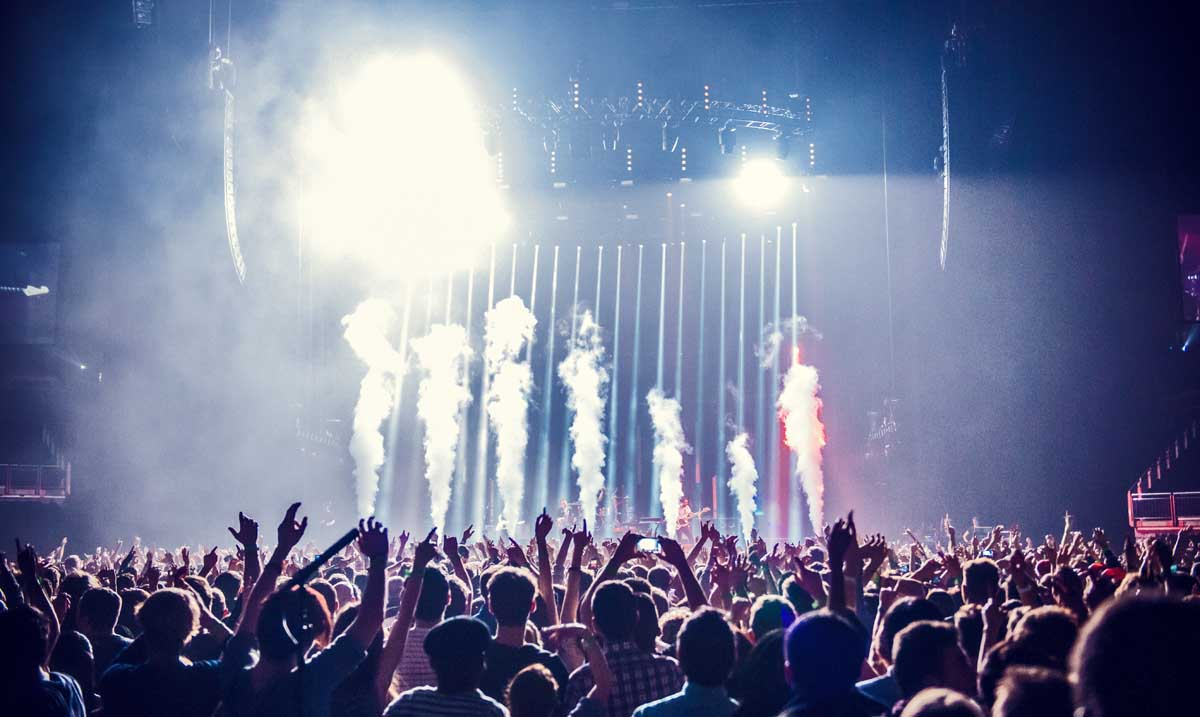
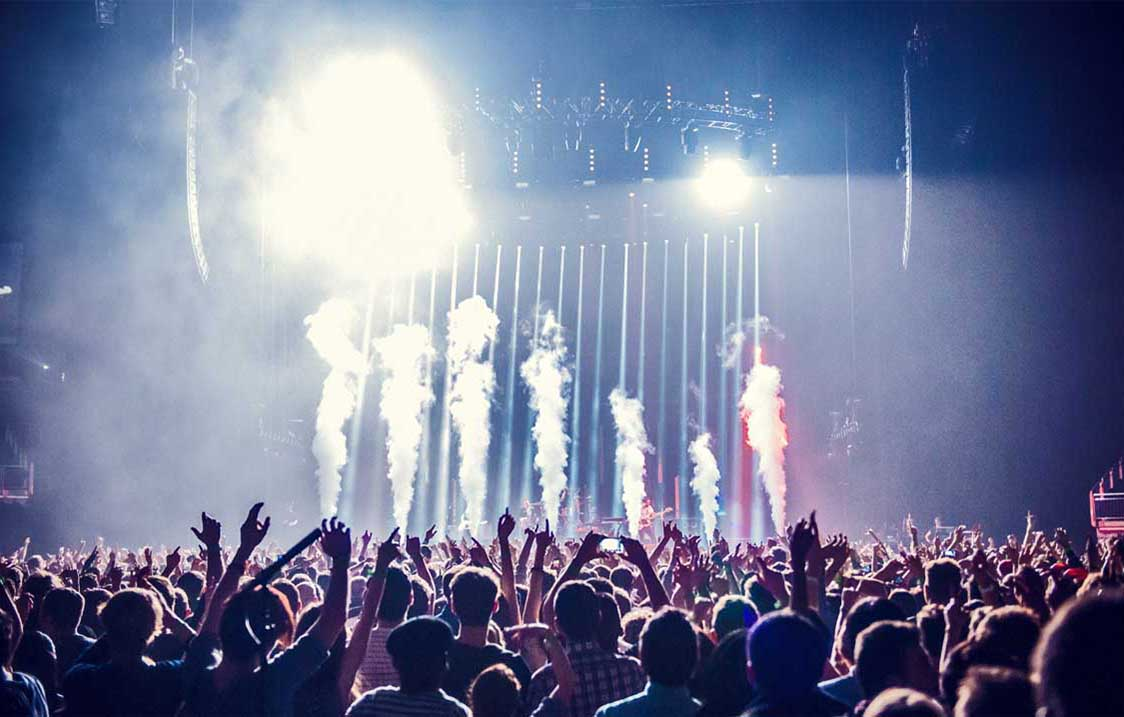
Lazy load fix

diff --git a/css/styles.css b/css/styles.css
@@ -1,1 +1,1 @@
-html,body,div,span,object,iframe,h1,h2,h3,h4,h5,h6,p,blockquote,pre,abbr,address,cite,code,del,dfn,em,img,ins,kbd,q,samp,small,strong,sub,sup,var,b,i,dl,dt,dd,ol,ul,li,fieldset,form,label,legend,table,caption,tbody,tfoot,thead,tr,th,td,article,aside,canvas,details,figcaption,figure,footer,header,hgroup,menu,nav,section,summary,time,mark,audio,video{margin:0;padding:0;border:0;outline:0;font-size:100%;vertical-align:baseline;background:transparent}body{line-height:1}article,aside,details,figcaption,figure,footer,header,hgroup,menu,nav,section{display:block}nav ul{list-style:none}blockquote,q{quotes:none}blockquote:before,blockquote:after,q:before,q:after{content:'';content:none}a{margin:0;padding:0;font-size:100%;vertical-align:baseline;background:transparent}ins{background-color:#ff9;color:#000;text-decoration:none}mark{background-color:#ff9;color:#000;font-style:italic;font-weight:bold}del{text-decoration:line-through}abbr[title],dfn[title]{border-bottom:1px dotted;cursor:help}table{border-collapse:collapse;border-spacing:0}hr{display:block;height:1px;border:0;border-top:1px solid #cccccc;margin:1em 0;padding:0}input,select{vertical-align:middle}html{-webkit-text-size-adjust:100%;-ms-text-size-adjust:100%}*{-moz-box-sizing:border-box;-webkit-box-sizing:border-box;box-sizing:border-box}body{font-family:"Raleway",sans-serif;font-size:16px;font-weight:300;min-height:100%;position:relative}header{height:130px;width:100%;background-color:#27282b;position:relative}header .header-div{max-width:75rem}header h1,header h2{padding-left:2%;font-weight:300;margin-left:110px;position:relative;bottom:-50px}header figure.logo{position:absolute;bottom:10px;left:2%;max-width:95px}header figure.logo img{width:100%}header h1{font-size:1.2rem;padding-top:20px;color:#fff}header h2{font-size:.8rem;color:#fff;margin-top:.5rem}header .social-icons{width:180px;position:absolute;top:2%;right:0}header .social-icons ul.social li{list-style-type:none;float:left;width:25%}header .social-icons ul.social li a{display:block;margin:0 auto;background-image:url(../images/socialSprites.png);height:45px;width:45px}header .social-icons ul.social .twitter a{background-position:-90px -45px}header .social-icons ul.social .facebook a{background-position:-45px -45px}header .social-icons ul.social .youtube a{background-position:-225px -45px}header .social-icons ul.social .twitter a:hover{background-position:-90px 0px}header .social-icons ul.social .facebook a:hover{background-position:-45px 0px}header .social-icons ul.social .youtube a:hover{background-position:-225px 0px}nav{background-color:#09f;width:100%}nav div{max-width:75rem}nav ul li{float:left;width:25%;border-right:1px solid rgba(0,0,0,0.3)}nav ul li:last-child{border-right:none}nav ul li a{display:block;text-align:center;font-weight:500;padding:.5rem 0;color:#fff;text-decoration:none}nav ul li.active a{background-color:#fff;color:#09f}nav ul li a:hover{color:#fff;background-color:#27282b}main{min-height:20rem;background-color:#fff;display:block;float:left;clear:both}main #main-div{margin-bottom:4%}main h1{font-size:2rem;margin-top:1rem;color:#27282b}main h2{font-size:1.5rem;margin:.75rem 0 .5rem 0;color:#09f}main p{line-height:100%;margin:0 2%;text-align:left}main figure.circle-image{float:right;padding:0 0 1rem 1rem;background:red;margin:.5rem;margin-right:-90px;margin-top:-40px;clip-path:circle(20% at 50% 45%);shape-outside:circle(30% at 150px 50px)}main .row{clear:both;float:left}main .column{padding:0 2%}main .small-1{width:8.3333333333%;float:left}main .small-2{width:16.6666666667%;float:left}main .small-3{width:25%;float:left}main .small-4{width:33.3333333333%;float:left}main .small-5{width:41.6666666667%;float:left}main .small-6{width:50%;float:left}main .small-7{width:58.3333333333%;float:left}main .small-8{width:66.6666666667%;float:left}main .small-9{width:75%;float:left}main .small-10{width:83.3333333333%;float:left}main .small-11{width:91.6666666667%;float:left}main .small-12{width:100%;float:left}main .perf-images{display:inline-grid;grid-template-rows:1;grid-template-columns:1;justify-items:center}main .perf-images figure{width:100%;padding-bottom:2%}main .perf-images figure img{width:100%}footer{display:block;float:left;width:100%;background-color:#09f;margin-top:4%}footer div{max-width:75rem}footer p{text-align:center;color:#fff;padding:.75rem 0;font-size:.9rem}footer p a{color:#fff;text-decoration:none}.clearfix:after{content:"";display:table;clear:both}@media only screen and (min-width: 35em){header h1{padding-top:35px;font-size:2rem}header h2{font-size:1.2rem;margin-top:.5rem}header h1,header h2{bottom:0px}main{max-width:100em;margin:0 auto}main .medium-1{width:8.3333333333%;float:left}main .medium-2{width:16.6666666667%;float:left}main .medium-3{width:25%;float:left}main .medium-4{width:33.3333333333%;float:left}main .medium-5{width:41.6666666667%;float:left}main .medium-6{width:50%;float:left}main .medium-7{width:58.3333333333%;float:left}main .medium-8{width:66.6666666667%;float:left}main .medium-9{width:75%;float:left}main .medium-10{width:83.3333333333%;float:left}main .medium-11{width:91.6666666667%;float:left}main .medium-12{width:100%;float:left}}@media only screen and (min-width: 64em){header h1{padding-top:35px;font-size:2rem}header h2{font-size:1.2rem;margin-top:.5rem}header h1,header h2{bottom:0px}nav ul{margin-left:2%;border-left:1px solid rgba(0,0,0,0.3)}nav ul li{width:auto}nav ul li:last-child{border-right:1px solid rgba(0,0,0,0.3)}nav ul li a{padding:.5rem 1rem}main .large-1{width:8.3333333333%;float:left}main .large-2{width:16.6666666667%;float:left}main .large-3{width:25%;float:left}main .large-4{width:33.3333333333%;float:left}main .large-5{width:41.6666666667%;float:left}main .large-6{width:50%;float:left}main .large-7{width:58.3333333333%;float:left}main .large-8{width:66.6666666667%;float:left}main .large-9{width:75%;float:left}main .large-10{width:83.3333333333%;float:left}main .large-11{width:91.6666666667%;float:left}main .large-12{width:100%;float:left}}
+html,body,div,span,object,iframe,h1,h2,h3,h4,h5,h6,p,blockquote,pre,abbr,address,cite,code,del,dfn,em,img,ins,kbd,q,samp,small,strong,sub,sup,var,b,i,dl,dt,dd,ol,ul,li,fieldset,form,label,legend,table,caption,tbody,tfoot,thead,tr,th,td,article,aside,canvas,details,figcaption,figure,footer,header,hgroup,menu,nav,section,summary,time,mark,audio,video{margin:0;padding:0;border:0;outline:0;font-size:100%;vertical-align:baseline;background:transparent}body{line-height:1}article,aside,details,figcaption,figure,footer,header,hgroup,menu,nav,section{display:block}nav ul{list-style:none}blockquote,q{quotes:none}blockquote:before,blockquote:after,q:before,q:after{content:'';content:none}a{margin:0;padding:0;font-size:100%;vertical-align:baseline;background:transparent}ins{background-color:#ff9;color:#000;text-decoration:none}mark{background-color:#ff9;color:#000;font-style:italic;font-weight:bold}del{text-decoration:line-through}abbr[title],dfn[title]{border-bottom:1px dotted;cursor:help}table{border-collapse:collapse;border-spacing:0}hr{display:block;height:1px;border:0;border-top:1px solid #cccccc;margin:1em 0;padding:0}input,select{vertical-align:middle}html{-webkit-text-size-adjust:100%;-ms-text-size-adjust:100%}*{-moz-box-sizing:border-box;-webkit-box-sizing:border-box;box-sizing:border-box}body{font-family:"Raleway",sans-serif;font-size:16px;font-weight:300;min-height:100%;position:relative}header{height:130px;width:100%;background-color:#27282b}header .header-div{max-width:75rem;position:relative}header h1,header h2{padding-left:10px;font-weight:300;margin-left:110px;position:relative;bottom:-50px}header figure.logo{position:absolute;top:10px;left:10px;width:95px}header figure.logo img{width:100%}header h1{font-size:1.2rem;padding-top:20px;color:#fff}header h2{font-size:.8rem;color:#fff;margin-top:.5rem}header .social-icons{width:180px;position:absolute;top:10px;right:0}header .social-icons ul.social li{list-style-type:none;float:left;width:25%}header .social-icons ul.social li a{display:block;margin:0 auto;background-image:url(../images/socialSprites.png);height:45px;width:45px}header .social-icons ul.social .twitter a{background-position:-90px -45px}header .social-icons ul.social .facebook a{background-position:-45px -45px}header .social-icons ul.social .youtube a{background-position:-225px -45px}header .social-icons ul.social .twitter a:hover{background-position:-90px 0px}header .social-icons ul.social .facebook a:hover{background-position:-45px 0px}header .social-icons ul.social .youtube a:hover{background-position:-225px 0px}nav{background-color:#09f;width:100%}nav div{max-width:75rem}nav ul li{float:left;width:25%;border-right:1px solid rgba(0,0,0,0.3)}nav ul li:last-child{border-right:none}nav ul li a{display:block;text-align:center;font-weight:500;padding:.5rem 0;color:#fff;text-decoration:none}nav ul li.active a{background-color:#fff;color:#09f}nav ul li a:hover{color:#fff;background-color:#27282b}main{min-height:20rem;display:block;float:left;clear:both}main .main-div{margin-bottom:20px;max-width:75rem}main h1{font-size:2rem;margin-top:1rem;color:#27282b}main h2{font-size:1.5rem;margin:.75rem 0 .5rem 0;color:#09f}main p{line-height:100%;margin:0 10px;text-align:left}main figure.circle-image{float:right;padding:0 0 1rem 1rem;margin:.5rem;margin-right:-90px;margin-top:-40px;clip-path:circle(20% at 50% 45%);shape-outside:circle(30% at 150px 50px)}main .row{clear:both;float:left}main .column{padding:0 10px}main .small-1{width:8.3333333333%;float:left}main .small-2{width:16.6666666667%;float:left}main .small-3{width:25%;float:left}main .small-4{width:33.3333333333%;float:left}main .small-5{width:41.6666666667%;float:left}main .small-6{width:50%;float:left}main .small-7{width:58.3333333333%;float:left}main .small-8{width:66.6666666667%;float:left}main .small-9{width:75%;float:left}main .small-10{width:83.3333333333%;float:left}main .small-11{width:91.6666666667%;float:left}main .small-12{width:100%;float:left}main .perf-images{display:inline-grid;grid-template-rows:1;grid-template-columns:1;justify-items:center}main .perf-images figure{width:100%;height:0;padding-bottom:63.79%}main .perf-images figure img{width:100%;min-height:20px}footer{display:block;float:left;width:100%;background-color:#09f;margin-top:20px}footer div{max-width:75rem}footer p{text-align:center;color:#fff;padding:.75rem 0;font-size:.9rem}footer p a{color:#fff;text-decoration:none}.clearfix:after{content:"";display:table;clear:both}@media only screen and (min-width: 35em){header h1{padding-top:35px;font-size:2rem}header h2{font-size:1.2rem;margin-top:.5rem}header h1,header h2{bottom:0px}main{max-width:100em;margin:0 auto}main .medium-1{width:8.3333333333%;float:left}main .medium-2{width:16.6666666667%;float:left}main .medium-3{width:25%;float:left}main .medium-4{width:33.3333333333%;float:left}main .medium-5{width:41.6666666667%;float:left}main .medium-6{width:50%;float:left}main .medium-7{width:58.3333333333%;float:left}main .medium-8{width:66.6666666667%;float:left}main .medium-9{width:75%;float:left}main .medium-10{width:83.3333333333%;float:left}main .medium-11{width:91.6666666667%;float:left}main .medium-12{width:100%;float:left}}@media only screen and (min-width: 64em){header h1{padding-top:35px;font-size:2rem}header h2{font-size:1.2rem;margin-top:.5rem}header h1,header h2{bottom:0px}nav ul{margin-left:2%;border-left:1px solid rgba(0,0,0,0.3)}nav ul li{width:auto}nav ul li:last-child{border-right:1px solid rgba(0,0,0,0.3)}nav ul li a{padding:.5rem 1rem}main .large-1{width:8.3333333333%;float:left}main .large-2{width:16.6666666667%;float:left}main .large-3{width:25%;float:left}main .large-4{width:33.3333333333%;float:left}main .large-5{width:41.6666666667%;float:left}main .large-6{width:50%;float:left}main .large-7{width:58.3333333333%;float:left}main .large-8{width:66.6666666667%;float:left}main .large-9{width:75%;float:left}main .large-10{width:83.3333333333%;float:left}main .large-11{width:91.6666666667%;float:left}main .large-12{width:100%;float:left}}

diff --git a/index.html b/index.html
@@ -53,7 +53,7 @@
     
 <!-- MAIN STARTS HERE -->
 	<main class="clearfix">
-        <div id="main-div">
+        <div class="main-div">
         
             <div class="row">
                 <div class="column">
@@ -91,140 +91,69 @@
             <div class="perf-images">
                 <div class="column small-12 medium-12 large-10">
                     <figure>
-                        <picture>
-                        <source media="(min-width: 35rem)" data-srcset="images/p1_1200.jpg">
-                        <img data-src="images/p1_560.jpg" alt="photo"/>
-                        </picture>
+                        <img class="lazy" data-src="images/p1_1200.jpg" alt="photo" sizes="100vw"/>
                     </figure>
-                </div> <!-- end column -->
-                
-                <div class="column small-12 medium-12 large-10">
+ 
                     <figure>
-                        <picture>
-                        <source media="(min-width: 35rem)" data-srcset="images/p2_1200.jpg">
-                        <img data-src="images/p2_560.jpg" alt="photo"/>
-                        </picture>
+                        <img class="lazy" data-src="images/p2_1200.jpg" alt="photo" sizes="100vw"/>
                     </figure>
-                </div> <!-- end column -->
-                
-                <div class="column small-12 medium-12 large-10">
+ 
                     <figure>
-                        <picture>
-                        <source media="(min-width: 35rem)" data-srcset="images/p3_1200.jpg">
-                        <img data-src="images/p3_560.jpg" alt="photo"/>
-                        </picture>
+                        <img class="lazy" data-src="images/p3_1200.jpg" alt="photo" sizes="100vw"/>
                     </figure>
-                </div> <!-- end column -->
-                
-                <div class="column small-12 medium-12 large-10">
+       
                     <figure>
-                        <picture>
-                        <source media="(min-width: 35rem)" data-srcset="images/p4_1200.jpg">
-                        <img data-src="images/p4_560.jpg" alt="photo"/>
-                        </picture>
+                        <img class="lazy" data-src="images/p4_1200.jpg" alt="photo" sizes="100vw"/>
                     </figure>
-                </div> <!-- end column -->
-                
-                <div class="column small-12 medium-12 large-10">
+
                     <figure>
-                        <picture>
-                        <source media="(min-width: 35rem)" data-srcset="images/p5_1200.jpg">
-                        <img data-src="images/p5_560.jpg" alt="photo"/>
-                        </picture>
+                        <img class="lazy" data-src="images/p5_1200.jpg" alt="photo" sizes="100vw"/>
                     </figure>
-                </div> <!-- end column -->
-                
-                <div class="column small-12 medium-12 large-10">
+
                     <figure>
-                        <picture>
-                        <source media="(min-width: 35rem)" data-srcset="images/p6_1200.jpg">
-                        <img data-src="images/p6_560.jpg" alt="photo"/>
-                        </picture>
+                        <img class="lazy" data-src="images/p6_1200.jpg" alt="photo" sizes="100vw"/>
                     </figure>
-                </div> <!-- end column -->
-                
-                <div class="column small-12 medium-12 large-10">
+
                     <figure>
-                        <picture>
-                        <source media="(min-width: 35rem)" data-srcset="images/p7_1200.jpg">
-                        <img data-src="images/p7_560.jpg" alt="photo"/>
-                        </picture>
+                        <img class="lazy" data-src="images/p7_1200.jpg" alt="photo" sizes="100vw"/>
                     </figure>
-                </div> <!-- end column -->
-                
-                <div class="column small-12 medium-12 large-10">
+   
                     <figure>
-                        <picture>
-                        <source media="(min-width: 35rem)" data-srcset="images/p8_1200.jpg">
-                        <img data-src="images/p8_560.jpg" alt="photo"/>
-                        </picture>
+                        <img class="lazy" data-src="images/p8_1200.jpg" alt="photo" sizes="100vw"/>
                     </figure>
-                </div> <!-- end column -->
-                
-                <div class="column small-12 medium-12 large-10">
+ 
                     <figure>
-                        <picture>
-                        <source media="(min-width: 35rem)" data-srcset="images/p9_1200.jpg">
-                        <img data-src="images/p9_560.jpg" alt="photo"/>
-                        </picture>
+                        <img class="lazy" data-src="images/p9_1200.jpg" alt="photo" sizes="100vw"/>
                     </figure>
-                </div> <!-- end column -->
-                
-                <div class="column small-12 medium-12 large-10">
+ 
                     <figure>
-                        <picture>
-                        <source media="(min-width: 35rem)" data-srcset="images/p10_1200.jpg">
-                        <img data-src="images/p10_560.jpg" alt="photo"/>
-                        </picture>
+                        <img class="lazy" data-src="images/p10_1200.jpg" alt="photo" sizes="100vw"/>
                     </figure>
-                </div> <!-- end column -->
-                
-                <div class="column small-12 medium-12 large-10">
+  
                     <figure>
-                        <picture>
-                        <source media="(min-width: 35rem)" data-srcset="images/p11_1200.jpg">
-                        <img data-src="images/p11_560.jpg" alt="photo"/>
-                        </picture>
+                        <img class="lazy" data-src="images/p11_1200.jpg" alt="photo" sizes="100vw"/>
                     </figure>
-                </div> <!-- end column -->
-                
-                <div class="column small-12 medium-12 large-10">
+      
                     <figure>
-                        <picture>
-                        <source media="(min-width: 35rem)" data-srcset="images/p12_1200.jpg">
-                        <img data-src="images/p12_560.jpg" alt="photo"/>
-                        </picture>
+                        <img class="lazy" data-src="images/p12_1200.jpg" alt="photo" sizes="100vw"/>
                     </figure>
-                </div> <!-- end column -->
-                
-                <div class="column small-12 medium-12 large-10">
+
                     <figure>
-                        <picture>
-                        <source media="(min-width: 35rem)" data-srcset="images/p13_1200.jpg">
-                        <img data-src="images/p13_560.jpg" alt="photo"/>
-                        </picture>
+                        <img class="lazy" data-src="images/p13_1200.jpg" alt="photo" sizes="100vw"/>
                     </figure>
-                </div> <!-- end column -->
-                
-                <div class="column small-12 medium-12 large-10">
+ 
                     <figure>
-                        <picture>
-                        <source media="(min-width: 35rem)" data-srcset="images/p14_1200.jpg">
-                        <img data-src="images/p14_560.jpg" alt="photo"/>
-                        </picture>
+                        <img class="lazy" data-src="images/p14_1200.jpg" alt="photo" sizes="100vw"/>
                     </figure>
-                </div> <!-- end column -->
+
                 
-                <div class="column small-12 medium-12 large-10">
+
                     <figure>
-                        <picture>
-                        <source media="(min-width: 35rem)" data-srcset="images/p15_1200.jpg">
-                        <img data-src="images/p15_560.jpg" alt="photo"/>
-                        </picture>
+                        <img class="lazy" data-src="images/p15_1200.jpg" alt="photo" sizes="100vw"/>
                     </figure>
-                </div> <!-- end column -->
+
                 
-     
+                </div> //column
                 </div> <!-- end perf images -->
       
             </div> <!-- end row -->
@@ -242,18 +171,13 @@
     </div>
     </footer>
     
-    
-    <script src="js/lazyload.min.js"></script>
-    
     <script>
     var myLazyLoad = new LazyLoad({
-    data_src: "src",
-    data_srcset: "srcset",
-    show_while_loading: true, //best for progressive JPEG
-    threshold: 0,
-    
+    elements_selector: ".lazy"
 });
     </script>
+    
+    <script async src="js/lazyload.min.js"></script>
     
 </body>    
 </html>

diff --git a/sass/_small-default.scss b/sass/_small-default.scss
@@ -19,9 +19,11 @@ header {
     height:130px;
     width: 100%;
     background-color: $primaryColor;
-    position: relative;
+    
     .header-div {
         max-width: $maxWidth;
+        position: relative;
+
     }
 	h1, h2 {
         padding-left: $gutter; 
@@ -33,9 +35,9 @@ header {
 
     figure.logo {
         position: absolute;
-        bottom: 10px; 
-        left: 2%;
-        max-width: 95px;
+        top: 10px; 
+        left: 10px;
+        width: 95px;
         img {
             width: 100%;
         }
@@ -57,7 +59,7 @@ header {
     .social-icons {
         width: 180px;
         position: absolute;
-        top: $gutter;
+        top: 10px;
         right: 0;
     ul.social li {
         list-style-type: none;
@@ -121,13 +123,12 @@ nav {
 
 main {
     min-height: 20rem;
-    background-color: $fontColor;
     display: block;
     float: left;
     clear: both;
-    #main-div {
+    .main-div {
         margin-bottom: $gutterdbl;
-        
+        max-width: $maxWidth;
     }
     
 	h1 {
@@ -152,7 +153,6 @@ main {
     figure.circle-image {
         float: right;
         padding: 0 0 1rem 1rem;
-        background: red;
         margin: .5rem;
         margin-right: -90px;
         margin-top:-40px;
@@ -177,12 +177,16 @@ main {
         grid-template-rows: 1;
         grid-template-columns: 1;
         justify-items: center;
+        
         figure {
             width: 100%;
-            padding-bottom: $gutter;
+            height: 0;
+            padding-bottom: 63.79%;
             img {
                 width: 100%;
+                min-height: 20px;
             }
+            
         }
     }
     

diff --git a/sass/_variables.scss b/sass/_variables.scss
@@ -8,5 +8,5 @@ $normalWeight: 300;
 $boldWeight: 500;
 
 $maxWidth: 75rem;
-$gutter: 2%;
+$gutter: 10px;
 $gutterdbl: (2 * $gutter);
